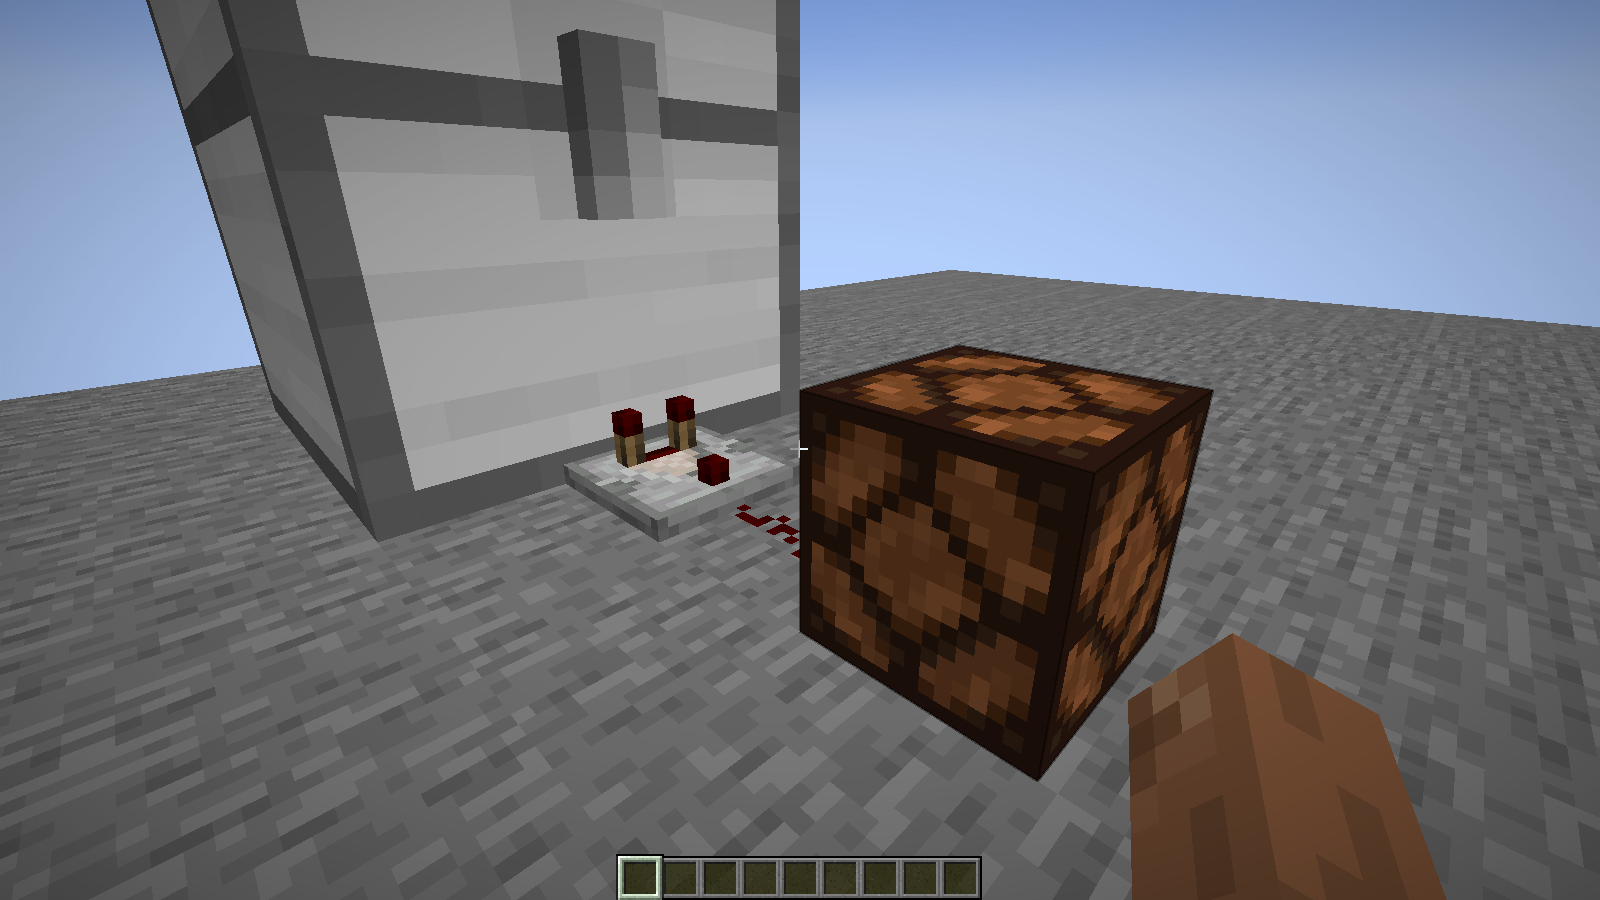
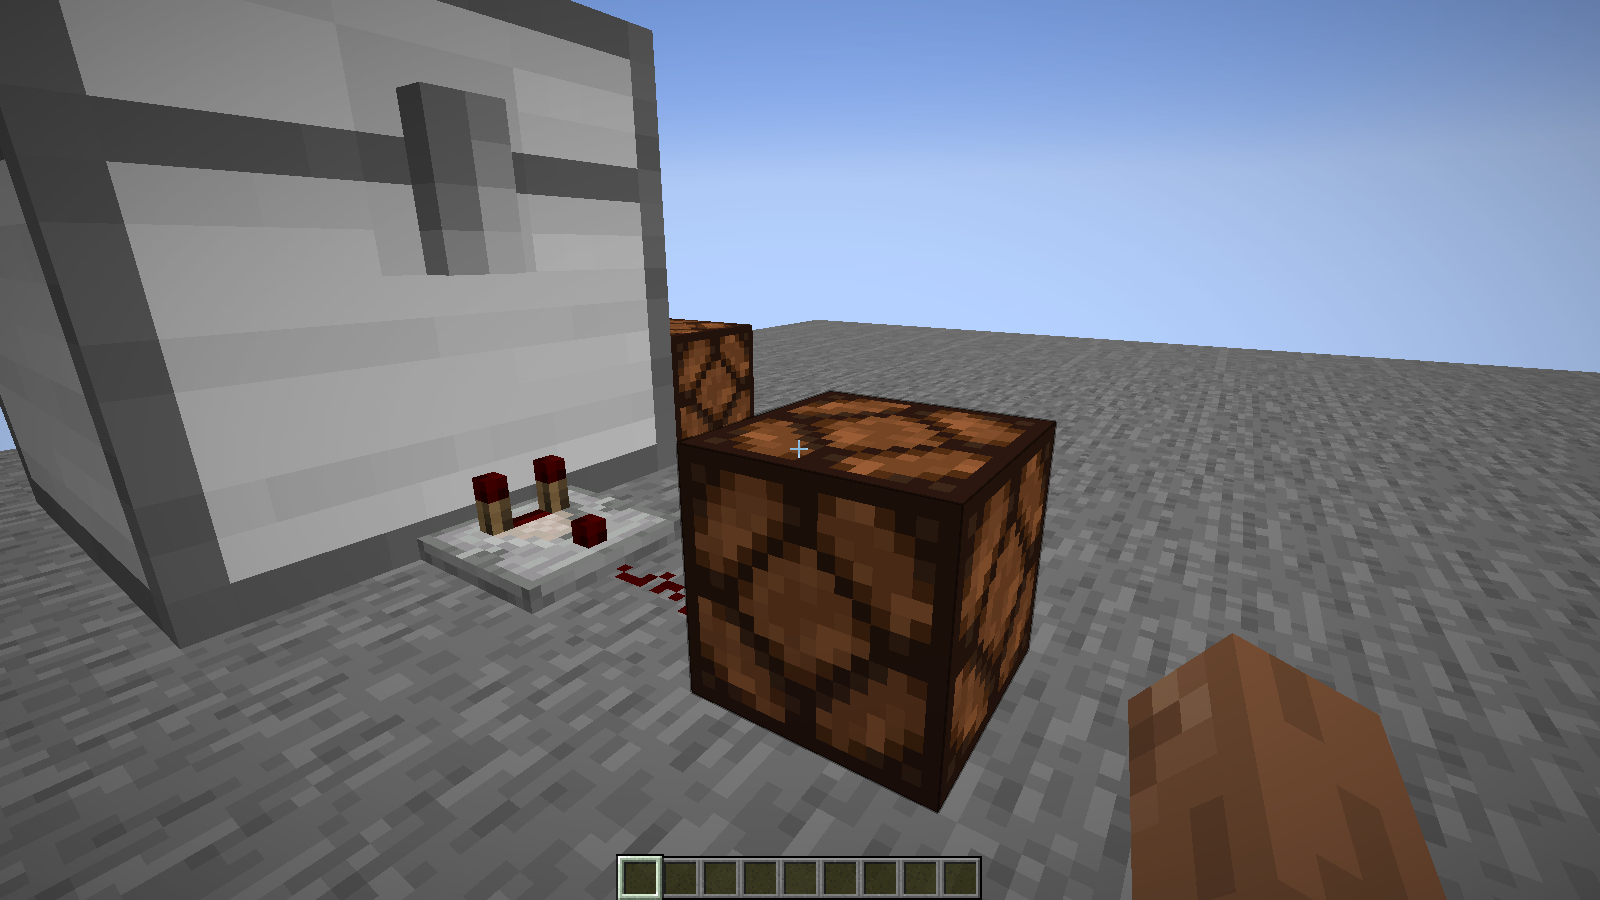
Phase 7c Redstone wall: direct power

diff --git a/phase7c-redstone/README.md b/phase7c-redstone/README.md
@@ -8,15 +8,15 @@ clientdevbridge world-reset
 clientdevbridge batch --continue-on-error <path-to>/phase7c-redstone/redstone-1.txt
 ```
 
-An iron 3x3 with a Redstone wall at the bottom middle of its front, a comparator in front of it, redstone dust and a lamp.
+An iron 3x3 with a Redstone wall at the bottom middle of its front, a comparator in front of it, redstone dust and a lamp. A second Redstone wall on the front left corner has a lamp directly against it, without a comparator.
 
 | Screenshot | Shows |
 |---|---|
 | `redstone-empty.png` | Empty chest: comparator off, lamp off |
-| `redstone-whole-chest.png` | 5000 stone in the chest: comparator on, lamp lit |
+| `redstone-whole-chest.png` | 5000 stone in the chest: comparator on, both lamps lit (the direct one behind the near lamp) |
 | `redstone-settings-whole-chest.png` | The settings, opened by sneak-right-click with an empty hand: empty slot means whole chest, signal 3 |
 | `redstone-settings-dirt.png` | After shift-clicking dirt: the wall follows dirt, which the chest does not hold, so signal 0 |
 | `redstone-dirt-none.png` | Back in the world: comparator off, lamp off |
 | `redstone-sneak-icon.png` | While sneaking, the wall shows its icon, like other functional walls |
 
-Read back from the world: the comparator's powered state and the lamp's lit state follow each step.
+Read back from the world: the comparator's powered state and the lamps' lit states follow each step.
